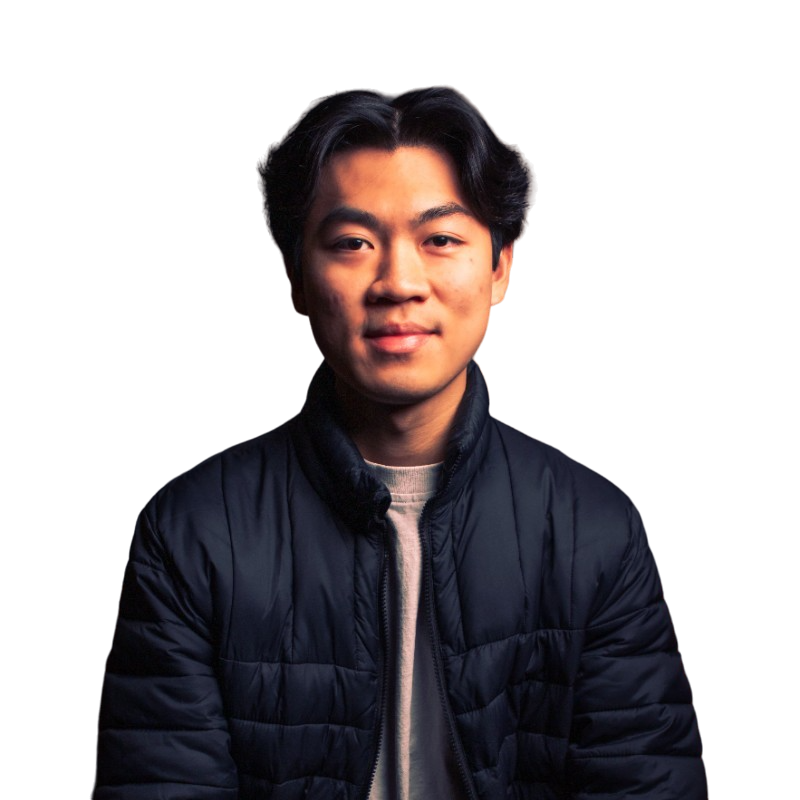
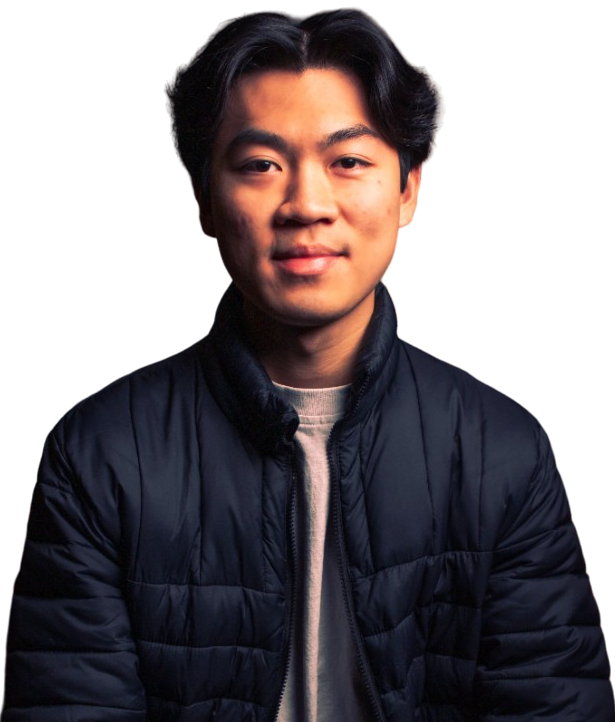
updates

diff --git a/components/Hello.tsx b/components/Hello.tsx
@@ -5,17 +5,16 @@ import Nametag from "./Nametag";
 const Hello = () => {
   return (
     <section className="max-container min-h-screen bg-blue-500d flex flex-col justify-center pb-[var(--header-height)] pb-[300px]">
-      <div className="flex gap-5 justify-center items-center">
-        <div className="relative select-none">
+      <div className="flex gap-10 justify-center items-center">
+        <div className="profileImageContainer relative group">
           <Image
+            id="headshot"
             src={"/images/chris.png"}
             alt="Christopher"
             height={400}
             width={400}
-            className="select-none z-50"
+            className="group-hover:-translate-y-[5px] group-hover:-translate-x-[5px]"
           ></Image>
-          <div className="h-[330px] w-[320px] z-[-1] absolute top-[70px] left-10 top-0d left-0d rounded-lg bg-gray-900"></div>
-          <div className="h-[330px] w-[320px] z-[-2] absolute top-[82px] left-[48px] angled-gradient rounded-lg opacity-[.8]"></div>
         </div>
         <div className="flex flex-col items-start">
           <Nametag className="rotate-[-3deg] scale-[.85]"></Nametag>

diff --git a/app/globals.css b/app/globals.css
@@ -12,6 +12,8 @@
   --bg-blue: #090912;
   --dark-slate: #495670;
   --navy: #0a192f;
+  --primary: #68aceb;
+  --secondary: #8446f0;
 }
 
 * {
@@ -90,4 +92,48 @@ body {
 
 ::-webkit-scrollbar-track {
   background: var(--bg-blue);
+}
+
+#headshot {
+  -webkit-user-drag: none;
+  overflow-clip-margin: content-box;
+  overflow: clip;
+  border-radius: 8px;
+}
+
+.profileImageContainer #headshot,
+.profileImageContainer::before,
+.profileImageContainer::after {
+  transition: all .3s ease-in-out;
+}
+
+.profileImageContainer:hover::before {
+  bottom: 5px;
+  left: -5px;
+}
+
+.profileImageContainer:hover::after {
+  bottom: -18px;
+  left: 15px;
+}
+
+.profileImageContainer::before {
+  content: "";
+  width: 100%;
+  height: 90%;
+  bottom: 0;
+  left: 0;
+  @apply absolute z-[-1] rounded-lg bg-gray-900;
+}
+
+.profileImageContainer::after {
+  content: "";
+  width: 100%;
+  height: 90%;
+  background: linear-gradient(227deg,var(--blue), var(--primary));
+  position: absolute;
+  opacity: .4;
+  bottom: -13px;
+  left: 10px;
+  @apply absolute z-[-2] rounded-lg;
 }
